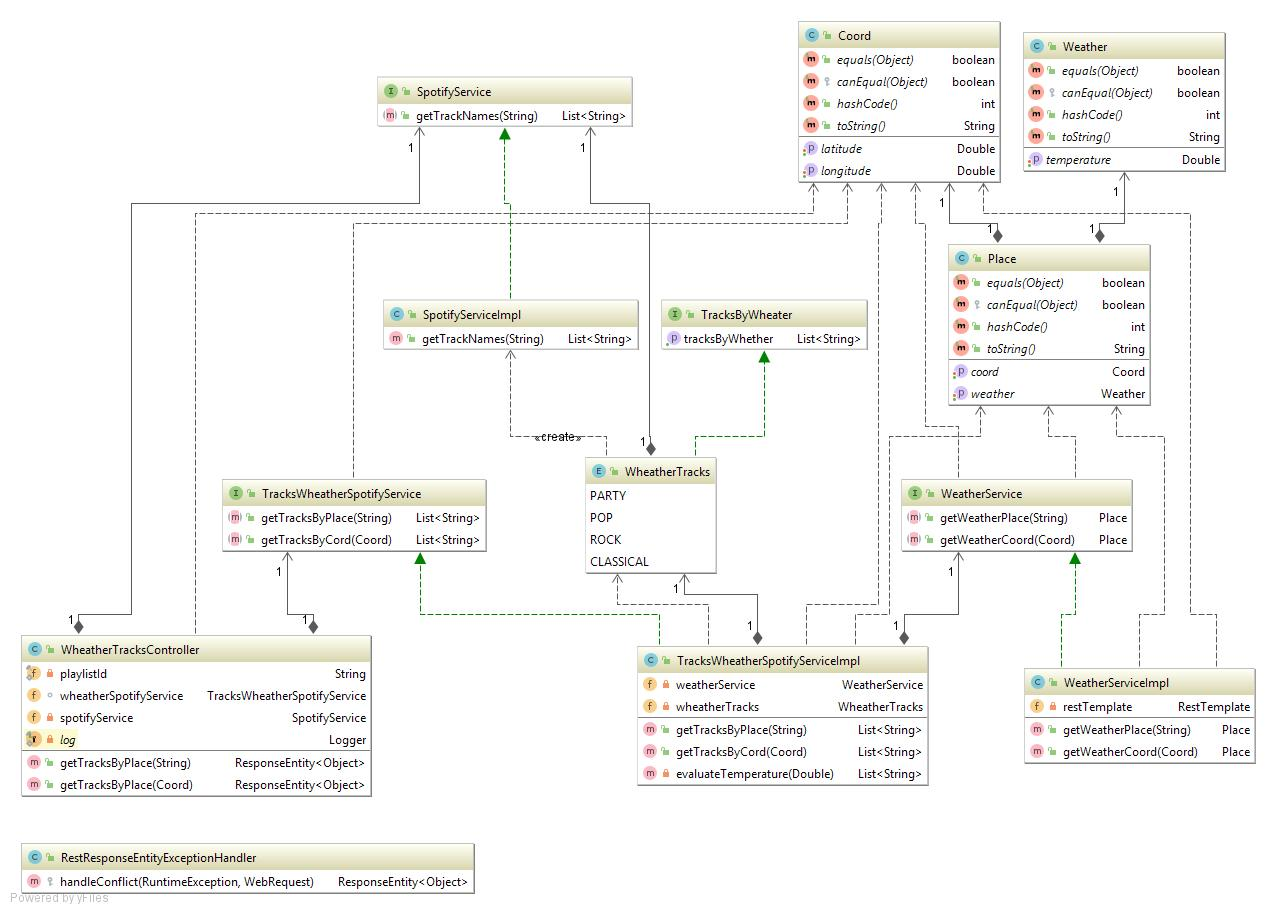
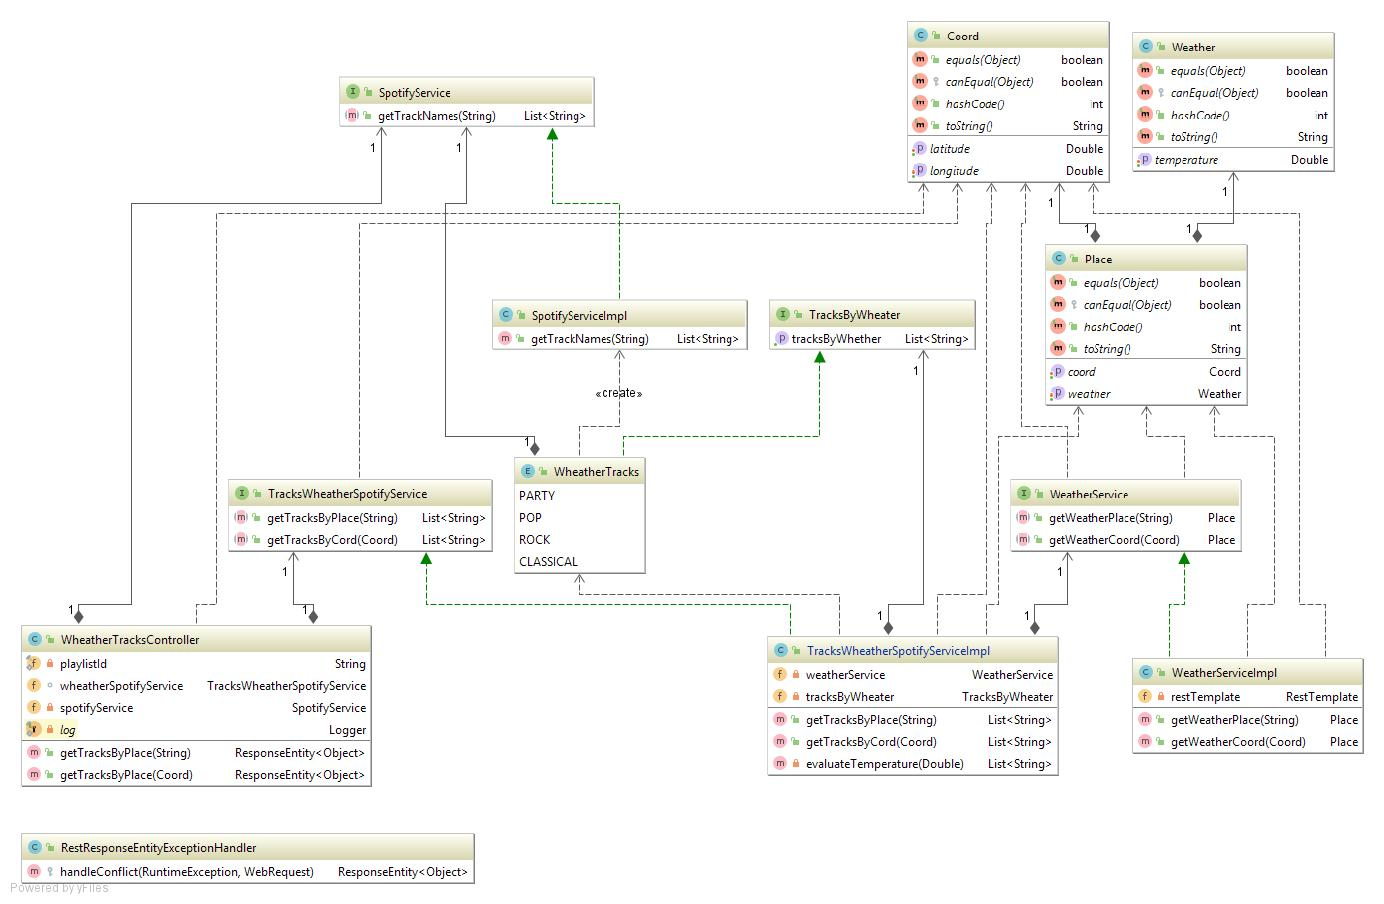
Documentación

diff --git a/src/main/java/com/ifood/test/service/impl/TracksWheatherSpotifyServiceImpl.java b/src/main/java/com/ifood/test/service/impl/TracksWheatherSpotifyServiceImpl.java
@@ -2,6 +2,7 @@ package com.ifood.test.service.impl;
 
 import com.ifood.test.dto.Coord;
 import com.ifood.test.dto.Place;
+import com.ifood.test.service.TracksByWheater;
 import com.ifood.test.service.TracksWheatherSpotifyService;
 import com.ifood.test.service.WeatherService;
 import com.ifood.test.service.WheatherTracks;
@@ -16,7 +17,7 @@ public class TracksWheatherSpotifyServiceImpl implements TracksWheatherSpotifySe
     @Autowired
     private WeatherService weatherService;
 
-    private WheatherTracks wheatherTracks;
+    private TracksByWheater tracksByWheater;
 
 
     @Override
@@ -38,15 +39,15 @@ public class TracksWheatherSpotifyServiceImpl implements TracksWheatherSpotifySe
 
     private List<String> evaluateTemperature(Double temperature) {
         if (temperature > 30) {
-            wheatherTracks = WheatherTracks.PARTY;
+            tracksByWheater = WheatherTracks.PARTY;
         } else if (temperature > 15 && temperature < 30) {
-            wheatherTracks = WheatherTracks.POP;
+            tracksByWheater = WheatherTracks.POP;
         } else if (temperature > 10 && temperature < 14) {
-            wheatherTracks = WheatherTracks.ROCK;
+            tracksByWheater = WheatherTracks.ROCK;
         } else if (temperature < 14) {
-            wheatherTracks = WheatherTracks.CLASSICAL;
+            tracksByWheater = WheatherTracks.CLASSICAL;
         }
-        return wheatherTracks.getTracksByWhether();
+        return tracksByWheater.getTracksByWhether();
     }
 
 

diff --git a/README.md b/README.md
@@ -21,49 +21,85 @@ Use whatever language, tools and frameworks you feel comfortable to, and briefly
 
 Also, make it easy to deploy/run your service(s) locally (consider using some container/vm solution for this). Once done, share your code with us.
 
-========================================================================================================================
-
-##Solución
-Las herramientas de trabajo que se usaron fueron las siguientes:
+________________________________________________________________________________________________________________________
 
 
-*Spring Boot: Se utilizo para realizar los microservicios:
-*spotify-web-api-java
-
-La api contiene solo dos URL´S  :
-
-La primera es para poner cualquier lugar que se desee.
-http://localhost:8080/api/tracks/place
-
-Puede ser invocada desde cualquier herramienta que pueda lanzar peticiones como curl
-
-Ejemplo:
-
-curl -X POST --header "Content-Type: application/json" --header "Accept: */*" -d "{  \"lat\": 90, \"lon\": -90}" "http://localhost:8080/api/tracks/coord"
-
-La Respuesta será la siguiente:
-
-[
-  "Ständchen, S. 560 (Trans. from Schwanengesang No. 4, D. 957)",
-  "Partita for Violin Solo No.2 in D Minor, BWV 1004: 4. Gigue (Arr. for Mandolin by Avi Avital)",
-  "Variation XVIII - Andante cantabile",
-  "Shostakovich: Piano Quintet in G Minor, Op. 57: III. Scherzo. Allegretto",
-  "Roll Over Beethoven: I. Allegro molto",
-  "Piano Concerto No. 3 in C Major, Op. 26: I. Andante. Allegro - Live",
-  "Piano Trio No. 1, Op. 49: III. Scherzo. Leggiero e vivace",
-  "Ellis Island (feat. Simone Dinnerstein)",
-  "Offenbach: Grand Concerto for Cello in G Major, \"Concerto Militaire\": II. Andante",
-  "Concerto No. 4 in E-Flat Major, K.495: III. Rondo. Allegro Vivace"
-]
+#Solution
+The work tools that were used are the following:
 
 
-La segunda es para poner las coordenadas del lugar
-http://localhost:8080/api/tracks/coord
+* spring-boot: Development framework used to do dependency injection.
+* spring-mvc: The Spring Web MVC framework provides Model-View-Controller (MVC) architecture and ready components that can be used to develop flexible and loosely coupled web applications.
+* spotify-web-api-java: Used to manage Spotify microservices
+* springfox-swagger2: It is used to test the services Rest of the application.
+* lombok: Utilities library to make POJO'S among other things
 
-Ejemplo:
-curl -X POST --header "Content-Type: application/json" --header "Accept: */*" -d "Polanco" "http://localhost:8080/api/tracks/place"
 
-[
+
+The class diagram used to resolve the problem is shown below.
+![images](IFood.jpg)
+
+
+###Start the application
+
+First you must compile the project with Maven as follows:
+
+```
+mvn clean install
+```
+
+Once compiled the application will generate the file **test-0.0.1-SNAPSHOT.jar** and to run the application is done the 
+following form, will run on the port 8080:
+
+```
+java -jar test-0.0.1-SNAPSHOT.jar
+```
+
+
+
+###The API contains two Get-type Rest Services
+
+
+* The first API is to put any place you want and with respect to the place will suggest with respect to the temperature a 
+playlist of music.
+>http://localhost:8080/api/tracks/place
+
+    Can be invoked as shown:
+
+>Example:
+
+>curl -X POST --header "Content-Type: application/json" --header "Accept: */*" -d "Polanco" "http://localhost:8080/api/tracks/place"
+
+
+    The answer will be as follows:
+
+>[
+   "Deberías Estar Aquí",
+   "Te Esperé",
+   "Si Tú Te Vas",
+   "Te Confieso",
+   "Baby Girl (feat. Lalo Ebratt)",
+   "Ráptame",
+   "La solución (feat. Carlos Rivera)",
+   "Contigo Siempre",
+   "Te Equivocaste (Primera Fila) - En Vivo",
+   "Dime (feat. Reik)"
+ >]
+
+
+* The second is to put the any coordinates of the place you want and with respect to the place will suggest with respect 
+to the temperature a playlist of music.
+
+>http://localhost:8080/api/tracks/coord
+
+    Can be invoked as shown:
+
+>Example:
+>curl -X POST --header "Content-Type: application/json" --header "Accept: */*" -d "Polanco" "http://localhost:8080/api/tracks/place"
+
+    The answer will be as follows:
+    
+>[
   "Deberías Estar Aquí",
   "Te Esperé",
   "Si Tú Te Vas",
@@ -74,5 +110,5 @@ curl -X POST --header "Content-Type: application/json" --header "Accept: */*" -d
   "Contigo Siempre",
   "Te Equivocaste (Primera Fila) - En Vivo",
   "Dime (feat. Reik)"
-]
+>]
 
